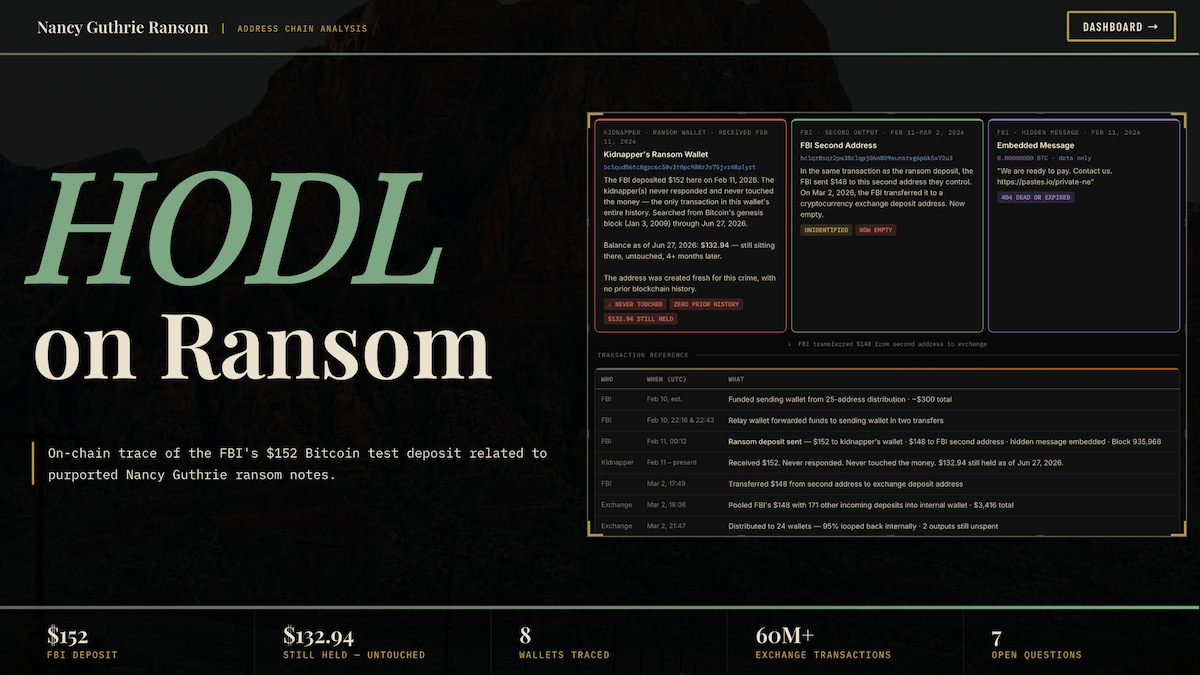
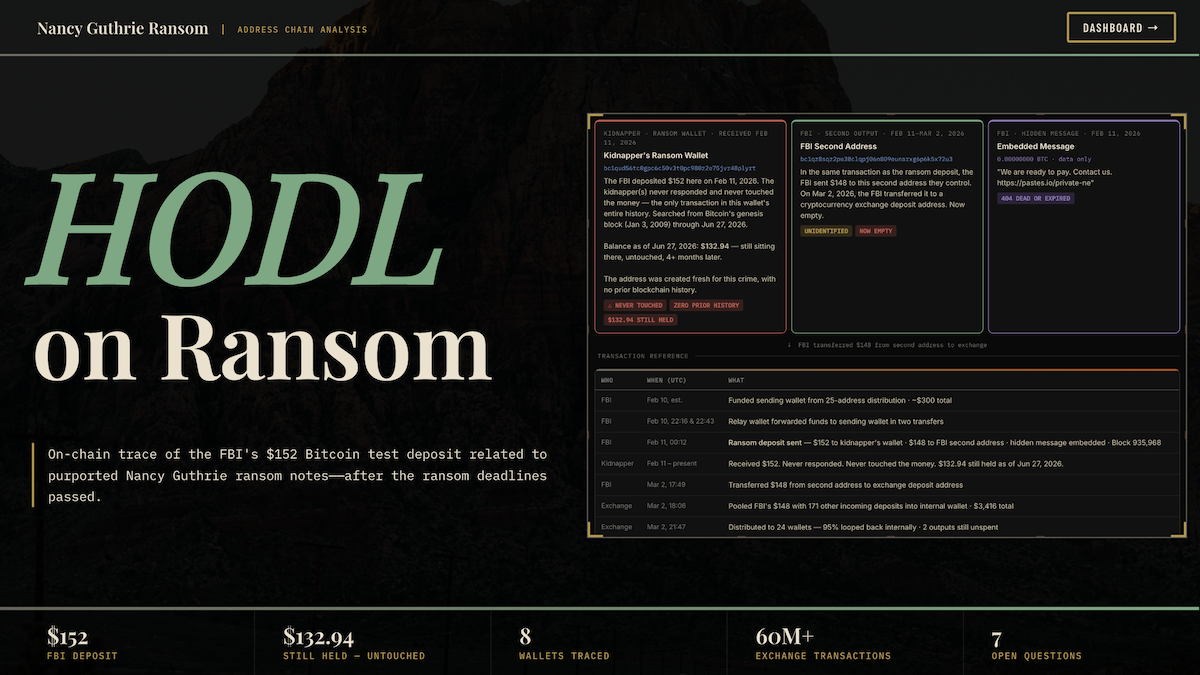
updated preview img

diff --git a/case/nancy-guthrie/img/btc-chain-preview.html b/case/nancy-guthrie/img/btc-chain-preview.html
@@ -391,7 +391,7 @@
       </h1>
 
       <p class="desc">
-        On-chain trace of the FBI's $152 Bitcoin test deposit related to purported Nancy Guthrie ransom notes.
+        On-chain trace of the FBI's $152 Bitcoin test deposit related to purported Nancy Guthrie ransom notes&mdash;&mdash;after the ransom deadlines passed.
       </p>
     </div>
 
